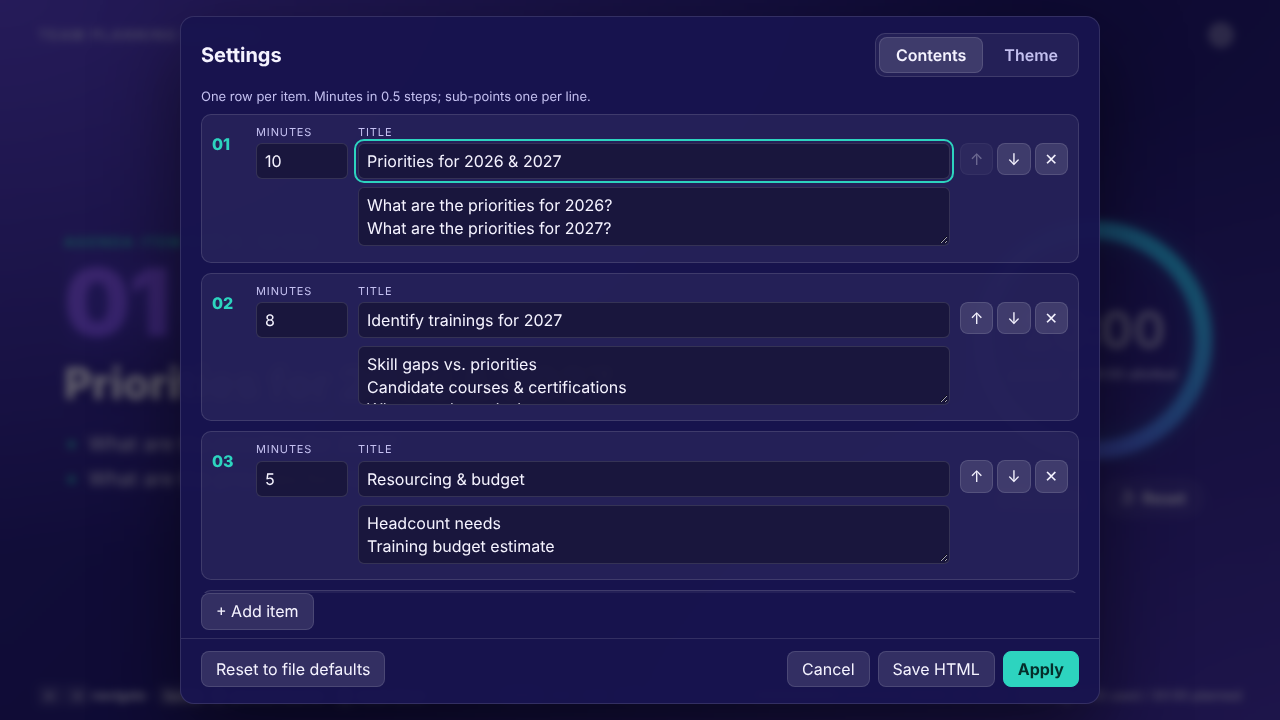
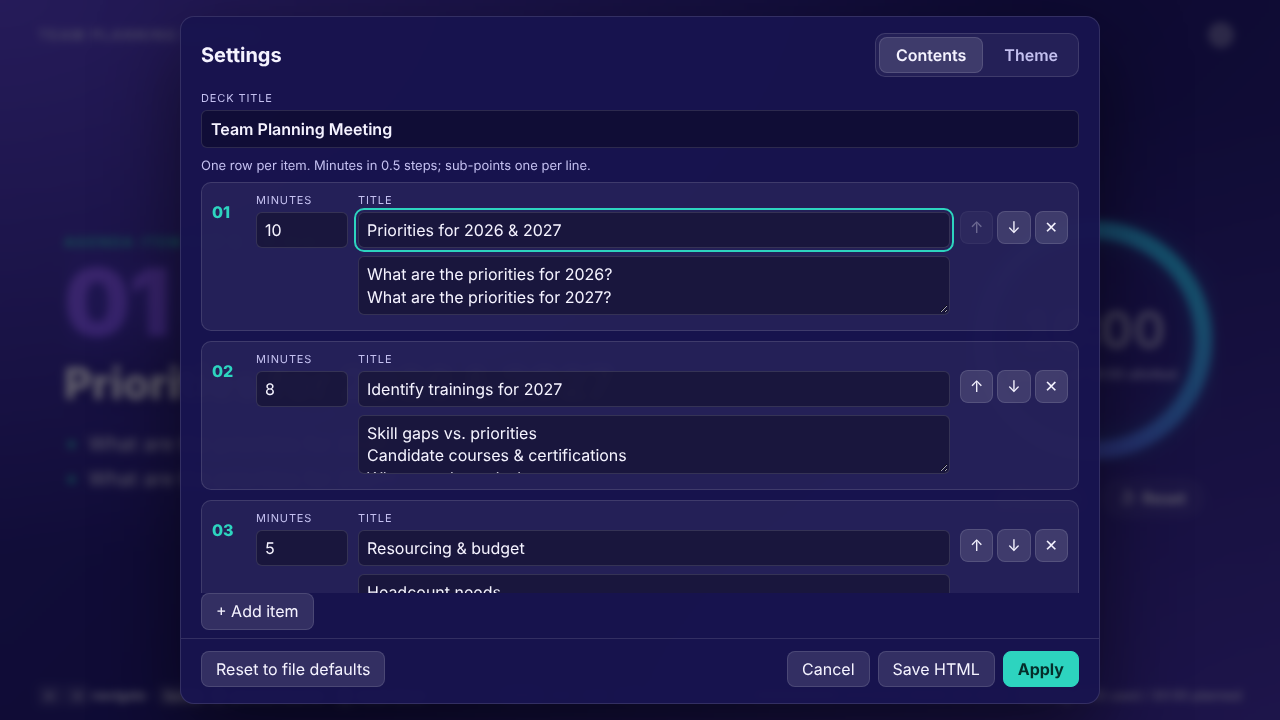
meeting-agenda: editable deck title, and --demo returns the bundled deck
Settings > Contents gains a 'Deck title' field (default 'Team Planning
Meeting') above the item rows. Apply updates the header, the page title
and localStorage; Cancel/Esc discard; blank hides the header; Reset
restores the file's title; Save HTML writes it escaped. It stays in
the agenda's existing "title" field, so old files keep working.

/meeting-agenda --demo now returns assets/meeting-agenda.html byte for
byte via build_deck.py --demo, which refuses an agenda, --title,
--theme or --check alongside it.

Red/green: 11 tests failed first; 133 skill tests and 516 package
tests pass.

Claude-Session: https://claude.ai/code/session_016hDNhTRrkD4ZEVhWj9Ayen

Changed region(s): [[0.1562, 0.1222, 0.8438, 0.825], [0.75, 0.7333, 0.8438, 0.7944], [0.75, 0.275, 0.8438, 0.3667]]

diff --git a/skills/productivity/meeting-agenda/assets/meeting-agenda.html b/skills/productivity/meeting-agenda/assets/meeting-agenda.html
@@ -189,6 +189,9 @@
   .ed-tabpanel { flex: 1 1 auto; min-height: 0; display: flex; flex-direction: column; }
   .ed-tabpanel[hidden] { display: none; }
   .ed-note { margin: 4px 20px 0; color: var(--muted); font-size: 13px; }
+  .ed-field { padding: 8px 20px 4px; }
+  .ed-field label { display: block; font-size: 11px; letter-spacing: .08em; text-transform: uppercase; color: var(--muted); margin-bottom: 3px; }
+  .ed-field input { width: 100%; font: inherit; font-weight: 600; color: var(--ink); background: var(--input); border: 1px solid var(--line); border-radius: 6px; padding: 7px 9px; }
   #ed-rows { flex: 1 1 auto; min-height: 0; overflow-y: auto; padding: 8px 20px; display: flex; flex-direction: column; gap: 10px; }
   .ed-add-row { padding: 0 20px 8px; }
   .ed-add-row button { background: var(--surface-2); border: 1px solid var(--line); border-radius: 8px; padding: 6px 14px; }
@@ -309,6 +312,10 @@
       </div>
     </div>
     <div id="panel-contents" class="ed-tabpanel" role="tabpanel" aria-labelledby="tab-contents">
+      <div class="ed-field">
+        <label for="f-deck-title">Deck title</label>
+        <input id="f-deck-title" type="text" autocomplete="off" spellcheck="true" placeholder="Shown top-left and as the page title (optional)">
+      </div>
       <p class="ed-note">One row per item. Minutes in 0.5 steps; sub-points one per line.</p>
       <div id="ed-rows"></div>
       <p id="ed-error" hidden>Every item needs a title and minutes greater than 0. Fix the highlighted rows.</p>
@@ -706,7 +713,7 @@
 
   function collect() {
     return {
-      title: agenda.title,
+      title: $("#f-deck-title").value.trim(),
       theme: draftTheme,
       items: readRows().map(function (r) {
         return {
@@ -725,6 +732,7 @@
     stop(); render();
     showErrors = false;
     $("#ed-error").hidden = true;
+    $("#f-deck-title").value = agenda.title;
     renderRows(agenda.items.map(rowFromItem));
     draftTheme = agenda.theme;
     renderThemes();

diff --git a/skills/productivity/meeting-agenda/tests/test_deck_title.py b/skills/productivity/meeting-agenda/tests/test_deck_title.py
@@ -1,0 +1,100 @@
+"""Settings → Contents: edit the deck title (shown top-left and as the page title)."""
+import json
+import re
+
+from playwright.sync_api import expect
+
+from conftest import STORAGE_KEY
+
+DEFAULT = "Team Planning Meeting"
+
+
+def open_contents(page):
+    page.locator("#btn-edit").click()
+    expect(page.locator("#panel-contents")).to_be_visible()
+    return page.locator("#f-deck-title")
+
+
+def test_contents_tab_has_a_deck_title_field_above_the_rows(deck):
+    field = open_contents(deck)
+    expect(field).to_be_visible()
+    expect(field).to_have_value(DEFAULT)
+    expect(deck.locator('label[for="f-deck-title"]')).to_have_text("Deck title")
+    above = deck.evaluate("""document.getElementById('f-deck-title')
+        .compareDocumentPosition(document.getElementById('ed-rows')) & Node.DOCUMENT_POSITION_FOLLOWING""")
+    assert above
+
+
+def test_apply_updates_header_page_title_and_storage(deck):
+    open_contents(deck).fill("  Q4 Offsite  ")
+    deck.locator("#ed-apply").click()
+    expect(deck.locator("#meeting-title")).to_have_text("Q4 Offsite")
+    assert deck.title() == "Q4 Offsite"
+    assert json.loads(deck.evaluate(f"localStorage.getItem('{STORAGE_KEY}')"))["title"] == "Q4 Offsite"
+    deck.reload()
+    expect(deck.locator("#meeting-title")).to_have_text("Q4 Offsite")
+    expect(open_contents(deck)).to_have_value("Q4 Offsite")
+
+
+def test_cancel_and_escape_discard_title_edits(deck):
+    open_contents(deck).fill("Changed")
+    deck.locator("#ed-cancel").click()
+    expect(deck.locator("#meeting-title")).to_have_text(DEFAULT)
+    open_contents(deck).fill("Changed again")
+    deck.keyboard.press("Escape")
+    expect(deck.locator("#meeting-title")).to_have_text(DEFAULT)
+    expect(open_contents(deck)).to_have_value(DEFAULT)
+
+
+def test_blank_title_is_allowed_and_hides_the_header_text(deck):
+    open_contents(deck).fill("   ")
+    deck.locator("#ed-apply").click()
+    expect(deck.locator("#editor")).to_be_hidden()
+    expect(deck.locator("#meeting-title")).to_have_text("")
+    assert deck.title() == "Meeting Agenda"
+
+
+def test_reset_restores_the_file_title(deck):
+    open_contents(deck).fill("Temp")
+    deck.locator("#ed-apply").click()
+    open_contents(deck)
+    deck.once("dialog", lambda d: d.accept())
+    deck.locator("#ed-reset").click()
+    expect(deck.locator("#meeting-title")).to_have_text(DEFAULT)
+
+
+def test_save_html_writes_the_edited_title(deck, browser, tmp_path):
+    open_contents(deck).fill("Board </script> review")
+    with deck.expect_download() as dl:
+        deck.locator("#ed-save").click()
+    out = tmp_path / "saved.html"
+    dl.value.save_as(out)
+    raw = re.search(r'id="agenda-data">(.*?)</script>', out.read_text(), re.S).group(1)
+    assert "<" not in raw
+    assert json.loads(raw)["title"] == "Board </script> review"
+    ctx = browser.new_context()
+    try:
+        p = ctx.new_page()
+        p.goto(out.as_uri())
+        expect(p.locator("#meeting-title")).to_have_text("Board </script> review")
+        assert p.title() == "Board </script> review"
+    finally:
+        ctx.close()
+
+
+def test_title_is_text_not_html(deck):
+    open_contents(deck).fill('<img src=x onerror="window.pwned=1">')
+    deck.locator("#ed-apply").click()
+    expect(deck.locator("#meeting-title")).to_have_text('<img src=x onerror="window.pwned=1">')
+    expect(deck.locator("#meeting-title img")).to_have_count(0)
+    assert deck.evaluate("window.pwned") is None
+
+
+def test_typing_in_the_title_field_does_not_drive_the_deck(deck):
+    field = open_contents(deck)
+    field.fill("")
+    field.type("Prep room 1 ")       # includes p, r and Space
+    expect(field).to_have_value("Prep room 1 ")
+    deck.locator("#ed-cancel").click()
+    expect(deck.locator(".slide.active .num")).to_have_text("01")
+    expect(deck.locator("#timer.paused")).to_have_count(0)

diff --git a/skills/productivity/meeting-agenda/scripts/build_deck.py b/skills/productivity/meeting-agenda/scripts/build_deck.py
@@ -14,6 +14,7 @@ Usage:
     build_deck.py agenda.json -o meeting-agenda.html [--title "..."] [--theme daylight]
     build_deck.py - -o deck.html < agenda.json      # read stdin
     build_deck.py agenda.json --check               # validate only
+    build_deck.py --demo -o meeting-agenda.html     # the bundled 30-minute demo, as is
 
 Exit codes: 0 ok, 2 invalid input.
 """
@@ -85,12 +86,29 @@ def summary(agenda):
 
 def main(argv=None):
     ap = argparse.ArgumentParser(description="Build a meeting-agenda slide deck from agenda JSON.")
-    ap.add_argument("agenda", help="agenda JSON file, or - for stdin")
+    ap.add_argument("agenda", nargs="?", help="agenda JSON file, or - for stdin")
+    ap.add_argument("--demo", action="store_true",
+                    help="copy the bundled demo deck (assets/meeting-agenda.html) byte for byte; takes no agenda")
     ap.add_argument("-o", "--output", help="where to write the deck HTML")
     ap.add_argument("--title", help="meeting title (overrides the one in the JSON)")
     ap.add_argument("--theme", help="deck theme: " + ", ".join(THEMES) + " (default: indigo)")
     ap.add_argument("--check", action="store_true", help="validate only; write nothing")
     args = ap.parse_args(argv)
+    if args.demo:
+        if args.agenda is not None or args.title is not None or args.theme is not None or args.check:
+            print("error: --demo copies the bundled deck as is; drop the agenda, --title, --theme and --check",
+                  file=sys.stderr)
+            return 2
+        if not args.output:
+            ap.error("--output is required with --demo")
+        out = pathlib.Path(args.output)
+        out.parent.mkdir(parents=True, exist_ok=True)
+        out.write_bytes(TEMPLATE.read_bytes())
+        demo = normalize(json.loads(BLOCK.search(TEMPLATE.read_text(encoding="utf-8")).group(2)))
+        print(f"wrote {out} (demo, unchanged): {summary(demo)}")
+        return 0
+    if args.agenda is None:
+        ap.error("an agenda file (or - for stdin) is required unless --demo is given")
     if not args.check and not args.output:
         ap.error("--output is required unless --check is given")
 

diff --git a/skills/productivity/meeting-agenda/tests/test_build_deck.py b/skills/productivity/meeting-agenda/tests/test_build_deck.py
@@ -145,3 +145,26 @@ def test_script_themes_match_the_page(deck):
     deck.locator("#tab-theme").click()
     page_themes = [c.get_attribute("data-theme") for c in deck.locator(".theme-card").all()]
     assert list(mod.THEMES) == page_themes
+
+
+def test_demo_copies_the_bundled_deck_byte_for_byte(tmp_path):
+    out = tmp_path / "demo.html"
+    r = run("--demo", "-o", out)
+    assert r.returncode == 0, r.stderr
+    assert out.read_bytes() == HTML.read_bytes()
+    assert "demo" in r.stdout and "5 items, 30:00 planned" in r.stdout
+
+
+def test_demo_takes_no_agenda_or_overrides(tmp_path):
+    src = tmp_path / "a.json"
+    src.write_text(json.dumps(AGENDA))
+    for extra in ([str(src)], ["--title", "X"], ["--theme", "ocean"]):
+        r = run("--demo", "-o", tmp_path / "d.html", *extra)
+        assert r.returncode == 2, extra
+        assert "--demo copies the bundled deck as is" in r.stderr
+    assert not (tmp_path / "d.html").exists()
+
+
+def test_demo_needs_an_output_path(tmp_path):
+    r = run("--demo")
+    assert r.returncode == 2 and "--output" in r.stderr

diff --git a/skills/productivity/meeting-agenda/meta/MAINTAINERS.md b/skills/productivity/meeting-agenda/meta/MAINTAINERS.md
@@ -10,7 +10,7 @@
 
 - `SKILL.md`: the agent workflow (input → agenda JSON → `build_deck.py` → verify → deliver).
 - `assets/meeting-agenda.html`: the template, which is also a working deck with the demo agenda.
-- `scripts/build_deck.py`: stdlib-only. `THEMES` must match the page's list. `normalize()` mirrors the in-page `normalize()` rules, and `embed()` replaces only the `agenda-data` block, with `<` escaped. Exit 2 on invalid input. Keep its validation in step with the page's.
+- `scripts/build_deck.py`: stdlib-only. `THEMES` must match the page's list. `--demo` copies the template byte for byte (for `/meeting-agenda --demo`) and refuses an agenda, `--title`, `--theme` or `--check` alongside it. `normalize()` mirrors the in-page `normalize()` rules, and `embed()` replaces only the `agenda-data` block, with `<` escaped. Exit 2 on invalid input. Keep its validation in step with the page's.
 - `tests/`: run `python3 -m pytest` from the skill directory.
 
 ## Layout of `assets/meeting-agenda.html`
@@ -73,7 +73,7 @@ The theme cards carry `data-theme` themselves, so each one picks up its own them
 
 ## Editor flow
 
-`openEditor` stops the timer and copies `agenda` into rows. Rows are re-rendered from `readRows()` on add, move and remove, so typed values survive. Validation runs on Apply and Save. After the first failed attempt it re-runs live on every input. `applyAgenda(data, persist)` either writes to `localStorage` (Apply) or clears it (Reset), rebuilds the deck, and resets all timers.
+`openEditor` stops the timer and copies `agenda` into the deck-title field and the rows. Rows are re-rendered from `readRows()` on add, move and remove, so typed values survive. Validation runs on Apply and Save. After the first failed attempt it re-runs live on every input. `applyAgenda(data, persist)` either writes to `localStorage` (Apply) or clears it (Reset), rebuilds the deck, and resets all timers.
 
 **Save HTML** clones the `PRISTINE` copy of the document (taken at script start, before anything is rendered) and writes `JSON.stringify(...).replace(/</g, "\\u003c")` into `#agenda-data`. It then downloads `"<!doctype html>\n" + outerHTML` as a Blob.
 
@@ -93,9 +93,10 @@ The theme cards carry `data-theme` themselves, so each one picks up its own them
 | `test_theme.py` | The reference theme: background, eyebrow, allotted caption, ring gradient, pill buttons with icons, dash dots filling per item, bar before text, hints wording, plain footer and gear |
 | `test_touch.py` | Phone context (`has_touch`, `is_mobile`): swipes, thresholds, tap zones, long-press, buttons not navigating, prev/next (≥ 44 px), device-specific hints, editor gating, mouse ignored, timer unaffected, phone layout fits, caption inside the ring |
 | `test_settings.py` | Settings tabs (order, ARIA, arrow keys), theme list, live preview, Cancel/Esc revert, Apply persists, Apply from the Theme tab with invalid rows, Save HTML carries the theme, Reset restores the default, unknown-theme fallback, per-theme contrast (AAA title, AA small text), shared warning colours, readable cards, ✓ on the selected card |
+| `test_deck_title.py` | Deck title field (label, above the rows), Apply updates the header, the page title and storage, Cancel/Esc discard, blank allowed, Reset restores, Save HTML escaping, shown as text, typing doesn't drive the deck |
 | `test_build_deck.py` | `build_deck.py`: file and stdin input, `--title`, only the data block changes, `<` escaping, each validation error, `--check`, and a built deck rendering in the browser |
 
-Selectors the tests rely on (keep them stable): `.slide`, `.slide.active`, `.num`, `.title`, `.points li`, `#timer(.warn|.over|.paused)`, `#timer-text`, `#ring-progress`, `#btn-pause`, `#btn-reset`, `#btn-edit`, `.eyebrow`, `#timer-sub`, `#ring-grad`, `#dots .dot .dot-fill`, `#tab-contents`, `#tab-theme`, `#panel-contents`, `#panel-theme`, `.theme-card[data-theme]` (`aria-checked`), `.theme-name`, `.theme-desc`, `html[data-theme]`, `#btn-prev`, `#btn-next`, `#toast`, `.hint-keys`, `.hint-touch`, `#meeting-text`, `#meeting-bar(.warn|.over) .seg(.current|.over) .seg-fill .tick`, `#editor .row(.invalid)`, `.f-min`, `.f-title`, `.f-points`, `.btn-up`, `.btn-down`, `.btn-remove`, `#ed-add`, `#ed-reset`, `#ed-cancel`, `#ed-save`, `#ed-apply`, `#ed-error`.
+Selectors the tests rely on (keep them stable): `.slide`, `.slide.active`, `.num`, `.title`, `.points li`, `#timer(.warn|.over|.paused)`, `#timer-text`, `#ring-progress`, `#btn-pause`, `#btn-reset`, `#btn-edit`, `.eyebrow`, `#timer-sub`, `#ring-grad`, `#dots .dot .dot-fill`, `#f-deck-title`, `#tab-contents`, `#tab-theme`, `#panel-contents`, `#panel-theme`, `.theme-card[data-theme]` (`aria-checked`), `.theme-name`, `.theme-desc`, `html[data-theme]`, `#btn-prev`, `#btn-next`, `#toast`, `.hint-keys`, `.hint-touch`, `#meeting-text`, `#meeting-bar(.warn|.over) .seg(.current|.over) .seg-fill .tick`, `#editor .row(.invalid)`, `.f-min`, `.f-title`, `.f-points`, `.btn-up`, `.btn-down`, `.btn-remove`, `#ed-add`, `#ed-reset`, `#ed-cancel`, `#ed-save`, `#ed-apply`, `#ed-error`.
 
 ## Common changes
 

diff --git a/skills/productivity/meeting-agenda/README.md b/skills/productivity/meeting-agenda/README.md
@@ -25,10 +25,18 @@ Or, in Claude Code, run `/plugin marketplace add sugatoray/aiskills`, then `/plu
 
 The agent turns this into agenda JSON, builds the deck with `scripts/build_deck.py`, and hands you `meeting-agenda.html`, along with a table of items and the planned total. Options: `--title`, `--total` (the target length, used to fill in missing item times), `--theme` (`indigo`, `midnight`, `ocean`, `daylight` or `contrast`), and `--output` (path).
 
+`/meeting-agenda --demo` returns the bundled 30-minute demo deck exactly as it ships.
+
 To build a deck yourself without an agent:
 
 ```bash
 python3 scripts/build_deck.py agenda.json -o meeting-agenda.html --title "Weekly sync" --theme daylight
+```
+
+Or copy the demo deck unchanged:
+
+```bash
+python3 scripts/build_deck.py --demo -o meeting-agenda.html
 ```
 
 ## Present it
@@ -69,7 +77,7 @@ On a touch screen, the footer hints change to "Swipe or tap to navigate · Hold 
 
 The gear opens **Settings**, which has two tabs. Switch between them by clicking, or with `←`/`→` when a tab has focus.
 
-**Contents** edits the agenda, with one row per item: minutes (0.5 steps), title, and sub-points (one per line). Use ↑/↓ to reorder, ✕ to remove a row (the last row can't be removed), and **+ Add item** for a new row.
+**Contents** edits the **deck title** (shown top-left and as the browser tab's title; leave it blank to hide it) and the agenda, with one row per item: minutes (0.5 steps), title, and sub-points (one per line). Use ↑/↓ to reorder, ✕ to remove a row (the last row can't be removed), and **+ Add item** for a new row.
 
 **Theme** shows the five themes as cards, each a small preview of that theme. Clicking a card previews the theme on the deck behind the dialog. The chosen card has a ✓.
 
@@ -87,7 +95,7 @@ The buttons at the bottom apply to both tabs:
 
 | Button | What it does |
 |---|---|
-| **Reset to file defaults** | Asks first, then restores the agenda and theme built into the file and forgets the browser copy |
+| **Reset to file defaults** | Asks first, then restores the title, agenda and theme built into the file and forgets the browser copy |
 | **Cancel** / `Esc` | Closes Settings and discards changes, including a previewed theme |
 | **Save HTML** | Downloads a copy of `meeting-agenda.html` with this agenda and theme built in. Share it, and it opens that way. |
 | **Apply** | Rebuilds the deck and remembers the agenda and theme in this browser (`localStorage`) |
@@ -121,7 +129,7 @@ python -m playwright install chromium
 python -m pytest
 ```
 
-If you already have Chromium installed, point `CHROMIUM_PATH` at it and skip the `playwright install` step. The suite has 121 tests (106 for the deck, 15 for `build_deck.py`) and runs in about 25 seconds, because the timers use Playwright's fake clock. It also regenerates `meta/screenshots/`.
+If you already have Chromium installed, point `CHROMIUM_PATH` at it and skip the `playwright install` step. The suite has 133 tests (115 for the deck, 18 for `build_deck.py`) and runs in about 25 seconds, because the timers use Playwright's fake clock. It also regenerates `meta/screenshots/`.
 
 ## Contents
 

diff --git a/skills/productivity/meeting-agenda/SKILL.md b/skills/productivity/meeting-agenda/SKILL.md
@@ -30,8 +30,19 @@ Leave `README.md`, `CHANGELOG.md` and `meta/` for maintainers. Read
 | `--total` | Sum of item minutes | Target length in minutes. Use it to allocate missing item times (below). If items already carry minutes that don't add up to it, say so; don't silently rescale. |
 | `--theme` | `indigo` | One of `indigo`, `midnight`, `ocean`, `daylight` (light; for bright rooms and projectors) or `contrast` (high contrast). If the user mentions a bright room, a projector or accessibility, suggest `daylight` or `contrast`. |
 | `--output` | `meeting-agenda.html` in the working directory | Path of the HTML file to write. |
+| `--demo` | Off | Return the bundled 30-minute demo deck exactly as it ships. See **Demo** below. |
 
-With no agenda at all, ask for one. Build the bundled 30-minute demo only if the user asks for a demo or example.
+With no agenda at all, ask for one. If the user asks for a demo or an example, treat it as `--demo`.
+
+## Demo (`--demo`)
+
+Copy the bundled deck byte for byte. Don't build, edit or re-theme it:
+
+```bash
+python3 scripts/build_deck.py --demo -o meeting-agenda.html
+```
+
+The script refuses an agenda, `--title` or `--theme` alongside `--demo` (exit 2). If the user passed any, say they were ignored, and offer a custom build instead. Then skip to **4. Deliver**: send the file, show the demo's five items (10 + 8 + 5 + 3 + 4 = 30 minutes), and give the controls line.
 
 ## 1. Turn the input into agenda JSON
 
@@ -84,7 +95,7 @@ Give the user:
 - **Footer:** keyboard hints, clickable progress dashes (one per item, each filling with that item's time), a progress bar, then `Meeting: M:SS used / M:SS planned`. The bar has one section per item, each filling with the time spent on that item. The bar turns amber at 80% of the planned total and red past it, and its tooltip shows the percentage used.
 - **Phones and tablets:** swipe left/right for next/previous, tap the right 70% / left 30% of the slide, long-press (½ s) to pause or resume, and `‹ ›` buttons beside the progress dashes. Touch targets are at least 44 px, and the layout scales down to fit a phone. Mouse clicks on the slide don't navigate.
 - **Settings (gear):** two tabs.
-  - **Contents:** a row per item (minutes, title, sub-points), with ↑/↓ to reorder, ✕ to remove (the last row can't be removed), and Add item.
+  - **Contents:** the deck title (shown top-left and as the page title; may be blank), then a row per item (minutes, title, sub-points), with ↑/↓ to reorder, ✕ to remove (the last row can't be removed), and Add item.
   - **Theme:** five themes (Indigo, Midnight, Ocean, Daylight, High contrast) as preview cards. Clicking one previews it live.
   - **Shared buttons:** Reset to file defaults (asks first), Cancel/Esc (discards changes, including a previewed theme), Save HTML (the agenda and theme go into the copy), and Apply (saved in the browser).
   - Rows without a title or with minutes ≤ 0 are highlighted and block Apply and Save. While Settings is open the timer pauses and keys don't change slides.

diff --git a/docs/.scrolls/SPEC.md b/docs/.scrolls/SPEC.md
@@ -17,7 +17,7 @@ Every page's header has a version menu with a **Find a version** box (partial or
 Every published npm release has an annotated git tag on the commit npm recorded as its `gitHead`, with the publish time in the message: `aiskills-v0.4.0`–`aiskills-v1.4.0` so far. New releases are tagged the same way (`src/packages/aiskills/docs/meta/MAINTAINERS.md` → Releasing, step 6).
 
 ## `meeting-agenda` skill (productivity group)
-`/meeting-agenda` turns an agenda (pasted text, notes, a document or JSON) into one offline HTML slide deck. Each item gets a slide with a large number, its title and sub-points, plus a ring countdown that turns amber in the last 20% and red with a `+M:SS` count-up past zero. The footer has progress dots and a meeting bar that fills per item. A gear-button editor applies to `localStorage` or downloads an updated copy. `scripts/build_deck.py` validates the agenda and writes it into the template with `<` escaped. Indigo/violet theme with cyan accents. On phones: swipe or tap to move, hold to pause, and `‹ ›` buttons. The gear opens Settings with Contents and Theme tabs: five themes, previewed live and saved with the agenda. 121 pytest + Playwright tests. Code: `skills/productivity/meeting-agenda/`.
+`/meeting-agenda` turns an agenda (pasted text, notes, a document or JSON) into one offline HTML slide deck. Each item gets a slide with a large number, its title and sub-points, plus a ring countdown that turns amber in the last 20% and red with a `+M:SS` count-up past zero. The footer has progress dots and a meeting bar that fills per item. A gear-button editor applies to `localStorage` or downloads an updated copy. `scripts/build_deck.py` validates the agenda and writes it into the template with `<` escaped. Indigo/violet theme with cyan accents. On phones: swipe or tap to move, hold to pause, and `‹ ›` buttons. The gear opens Settings with Contents and Theme tabs: five themes, previewed live and saved with the agenda, plus an editable deck title. `/meeting-agenda --demo` returns the bundled demo deck unchanged. 133 pytest + Playwright tests. Code: `skills/productivity/meeting-agenda/`.
 
 <!--
 ## <Feature name>

diff --git a/skills/productivity/meeting-agenda/CHANGELOG.md b/skills/productivity/meeting-agenda/CHANGELOG.md
@@ -18,6 +18,10 @@ Format based on [Keep a Changelog](https://keepachangelog.com/en/1.1.0/).
   label, a violet-to-cyan ring captioned "of M:SS allotted", pill
   Pause/Reset buttons, progress dashes that fill per item, and the
   meeting bar ahead of the meeting text.
+- Deck title field in Settings → Contents (default "Team Planning Meeting"),
+  kept in the agenda's `"title"`.
+- `/meeting-agenda --demo` (`build_deck.py --demo`) returns the bundled
+  demo deck byte for byte.
 - Settings (gear) with two tabs: **Contents** (the agenda editor) and
   **Theme**. There are five themes: Indigo (default), Midnight, Ocean,
   Daylight (light) and High contrast. Clicking a theme previews it live;
@@ -28,4 +32,4 @@ Format based on [Keep a Changelog](https://keepachangelog.com/en/1.1.0/).
 - Touch support: swipe, tap zones (right 70% forward, left 30% back),
   long-press to pause/resume, `‹ ›` buttons and touch hints on touch
   screens, and a layout that fits a phone.
-- pytest + Playwright suite (121 tests), built red/green.
+- pytest + Playwright suite (133 tests), built red/green.

diff --git a/src/packages/aiskills/docs/docsite/skills/meeting-agenda.md b/src/packages/aiskills/docs/docsite/skills/meeting-agenda.md
@@ -54,6 +54,7 @@ The files that ship with the skill, in `~/.config/sugatoray/aiskills/skills/meet
 - `scripts/build_deck.py`
 - `tests/conftest.py`
 - `tests/test_build_deck.py`
+- `tests/test_deck_title.py`
 - `tests/test_editor.py`
 - `tests/test_footer.py`
 - `tests/test_layout.py`
